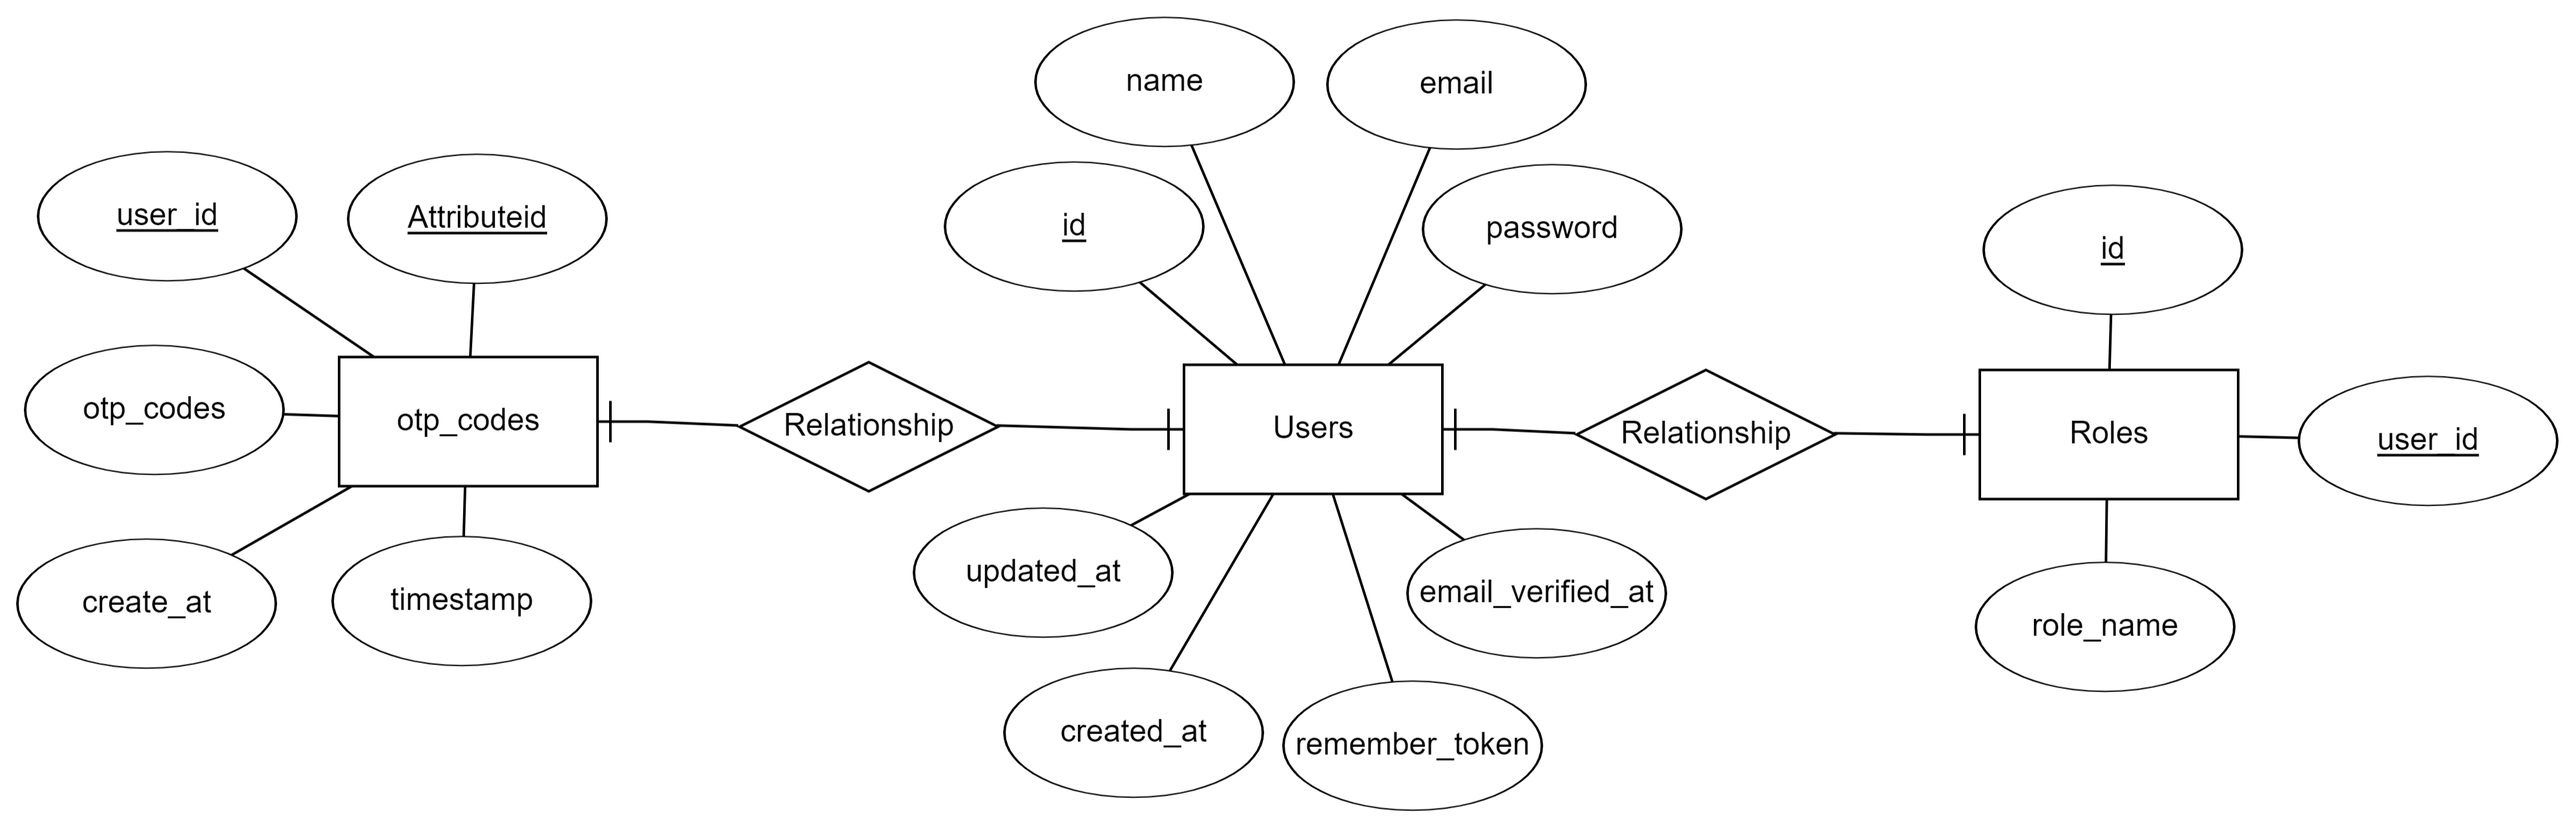
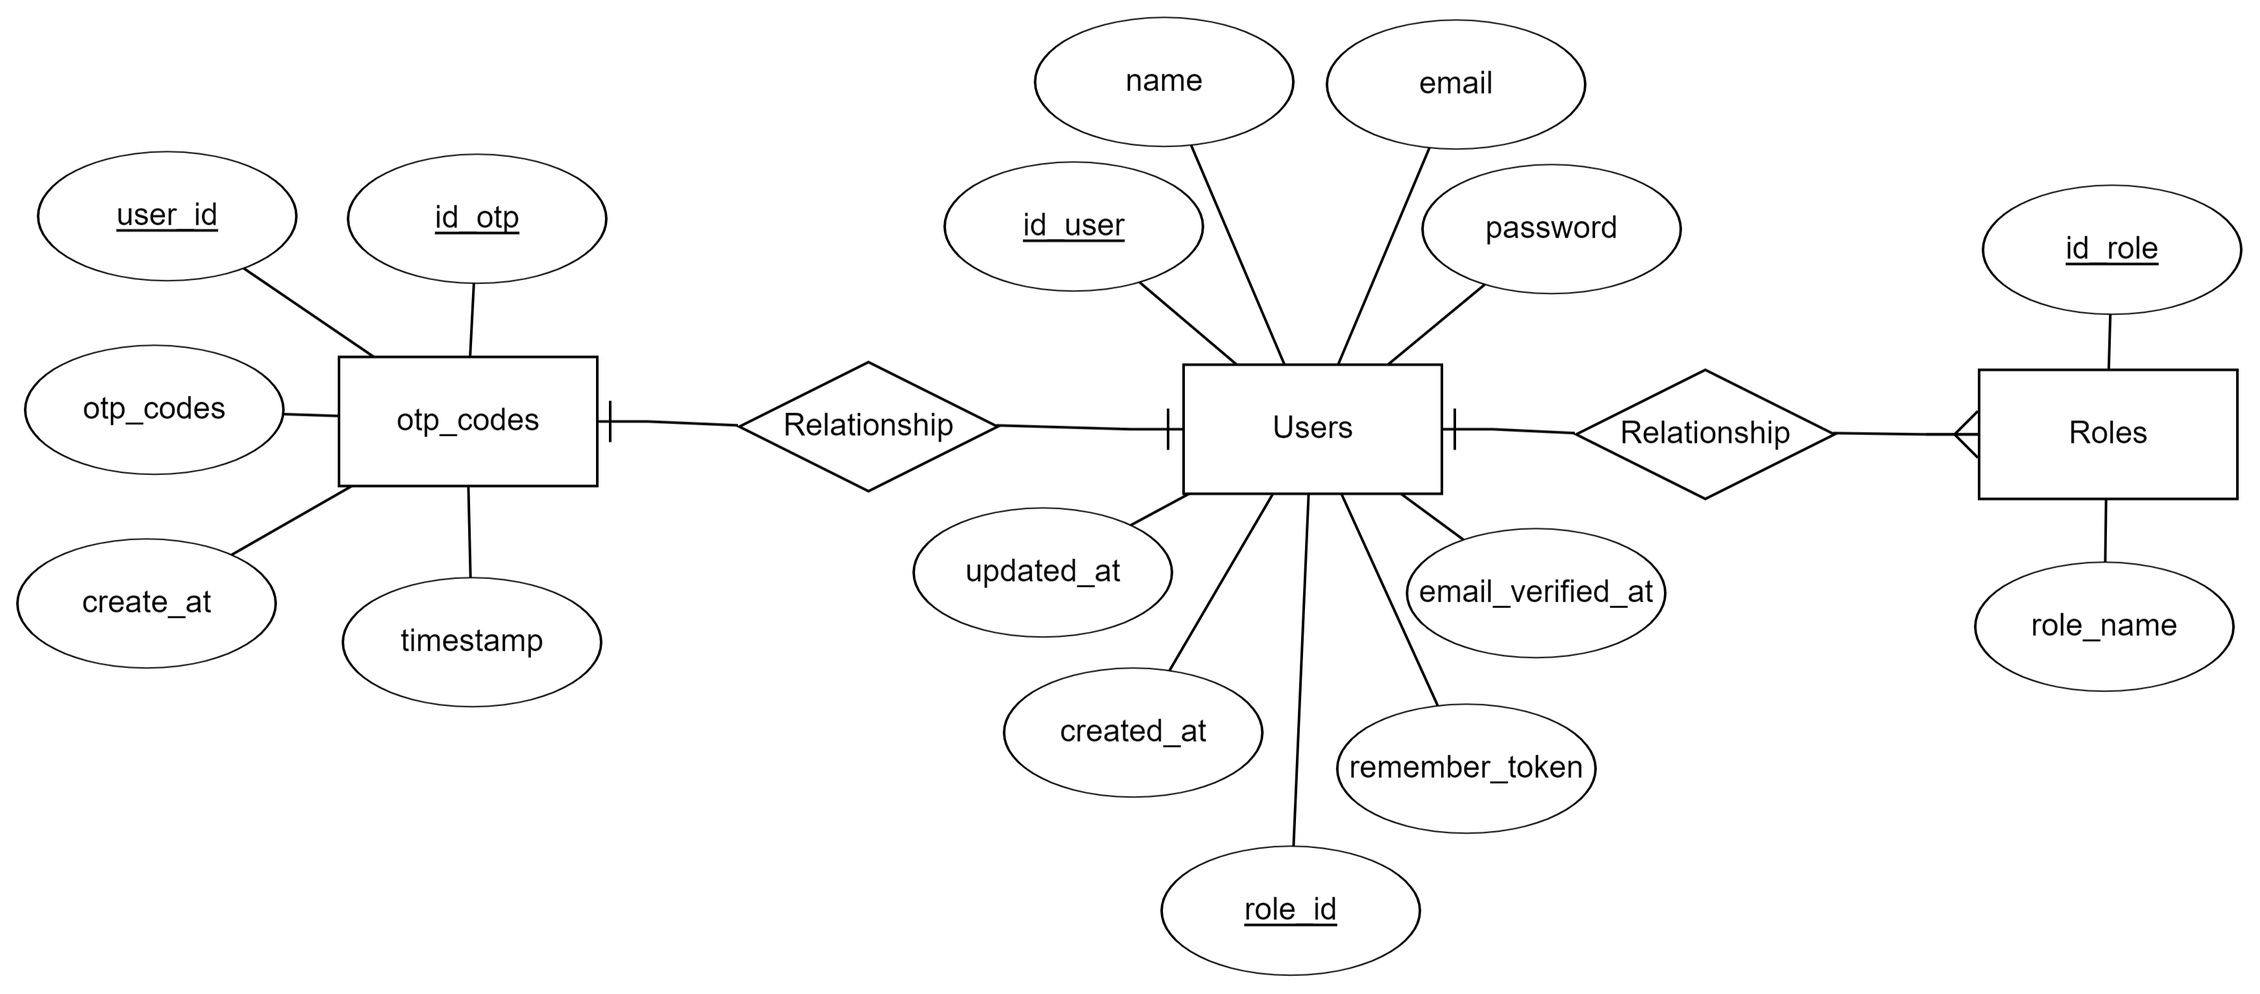
perubahan relasi

diff --git a/crowdfunding/app/User.php b/crowdfunding/app/User.php
@@ -2,14 +2,17 @@
 
 namespace App;
 
+// use App\Traits\UuidTrait;
 use Illuminate\Contracts\Auth\MustVerifyEmail;
 use Illuminate\Foundation\Auth\User as Authenticatable;
 use Illuminate\Notifications\Notifiable;
 use Illuminate\Support\Str;
 
+
 class User extends Authenticatable
 {
     use Notifiable;
+    // use UuidTrait;
 
     /**
      * The "booting" function of model
@@ -25,7 +28,10 @@ class User extends Authenticatable
                 $model->{$model->getKeyName()} = (string) Str::uuid();
             }
         });
+
+        // UuidTrait::bootUuidTrait();
     }
+
 
     /**
      * Get the value indicating whether the IDs are incrementing.
@@ -45,6 +51,18 @@ class User extends Authenticatable
     public function getKeyType()
     {
         return 'string';
+    }
+
+    // relation role
+    public function role()
+    {
+      return $this->belongsTo('App\Role');
+    }
+
+    // relation role
+    public function otp_coder()
+    {
+      return $this->hasOne('App\Role');
     }
 
     /**

diff --git a/crowdfunding/database/migrations/2020_11_04_020136_add_foreign_to_users_table.php b/crowdfunding/database/migrations/2020_11_04_020136_add_foreign_to_users_table.php
@@ -4,7 +4,7 @@ use Illuminate\Database\Migrations\Migration;
 use Illuminate\Database\Schema\Blueprint;
 use Illuminate\Support\Facades\Schema;
 
-class CreateRolesTable extends Migration
+class AddForeignToUsersTable extends Migration
 {
     /**
      * Run the migrations.
@@ -13,10 +13,8 @@ class CreateRolesTable extends Migration
      */
     public function up()
     {
-        Schema::create('roles', function (Blueprint $table) {
-            $table->uuid('id_role')->primary();
-            $table->string('name');
-            $table->timestamps();
+        Schema::table('users', function (Blueprint $table) {
+            $table->foreign('role_id')->references('id_role')->on('roles');
         });
     }
 
@@ -27,6 +25,8 @@ class CreateRolesTable extends Migration
      */
     public function down()
     {
-        Schema::dropIfExists('roles');
+        Schema::table('users', function (Blueprint $table) {
+            Schema::dropforeign('role_id');
+        });
     }
 }

diff --git a/crowdfunding/app/Otp_coder.php b/crowdfunding/app/Otp_coder.php
@@ -1,0 +1,45 @@
+<?php
+
+namespace App;
+
+use Illuminate\Database\Eloquent\Model;
+use Illuminate\Support\Str;
+
+class Otp_coder extends Model
+{
+    protected static function boot() {
+        parent::boot();
+        static::creating(function ($model) {
+            if ( ! $model->getKey()) {
+                $model->{$model->getKeyName()} = (string) Str::uuid();
+            }
+        });
+    
+        // UuidTrait::bootUuidTrait();
+    }
+
+    public function users()
+    {
+      return $this->hasOne('App\User');
+    }
+
+    /**
+     * Get the value indicating whether the IDs are incrementing.
+     *
+     * @return bool
+     */
+    public function getIncrementing()
+    {
+        return false;
+    }
+
+    /**
+     * Get the auto-incrementing key type.
+     *
+     * @return string
+     */
+    public function getKeyType()
+    {
+        return 'string';
+    }
+}

diff --git a/crowdfunding/app/Role.php b/crowdfunding/app/Role.php
@@ -1,0 +1,45 @@
+<?php
+
+namespace App;
+
+use Illuminate\Database\Eloquent\Model;
+use Illuminate\Support\Str;
+
+class Role extends Model
+{
+  protected static function boot() {
+    parent::boot();
+    static::creating(function ($model) {
+        if ( ! $model->getKey()) {
+            $model->{$model->getKeyName()} = (string) Str::uuid();
+        }
+    });
+
+    // UuidTrait::bootUuidTrait();
+  }
+
+  /**
+     * Get the value indicating whether the IDs are incrementing.
+     *
+     * @return bool
+     */
+    public function getIncrementing()
+    {
+        return false;
+    }
+
+    /**
+     * Get the auto-incrementing key type.
+     *
+     * @return string
+     */
+    public function getKeyType()
+    {
+        return 'string';
+    }
+
+    public function users()
+    {
+      return $this->hasMany('App\User');
+    }
+}

diff --git a/crowdfunding/database/migrations/2014_10_12_000000_create_users_table.php b/crowdfunding/database/migrations/2014_10_12_000000_create_users_table.php
@@ -14,14 +14,18 @@ class CreateUsersTable extends Migration
     public function up()
     {
         Schema::create('users', function (Blueprint $table) {
-            $table->uuid('id')->primary();
+            $table->uuid('id_user')->primary();
             $table->string('name');
             $table->string('email')->unique();
             $table->string('password');
+            $table->uuid('role_id')->nullable();
             $table->timestamp('email_verified_at')->nullable();
             $table->rememberToken();
             $table->timestamps();
+            // $table->foreign('role_id')->references('id_role')->on('roles');
         });
+
+      
     }
 
     /**

diff --git a/crowdfunding/database/migrations/2020_11_03_055714_create_otp_coders_table.php b/crowdfunding/database/migrations/2020_11_03_055714_create_otp_coders_table.php
@@ -14,11 +14,11 @@ class CreateOtpCodersTable extends Migration
     public function up()
     {
         Schema::create('otp_coders', function (Blueprint $table) {
-            $table->uuid('id');
+            $table->uuid('id_otp')->primary();
             $table->string('otp_code');
-            $table->uuid('user_id');
+            $table->uuid('user_id')->nullable();
             $table->timestamps();
-            $table->foreign('user_id')->references('id')->on('users');
+            $table->foreign('user_id')->references('id_user')->on('users');
         });
     }
 

diff --git a/crowdfunding/app/Traits/UuidTrait.php b/crowdfunding/app/Traits/UuidTrait.php
@@ -1,0 +1,18 @@
+<?php
+namespace App\Traits;
+
+use Illuminate\Support\Str;
+
+trait UuidTrait {
+
+  public static function bootUuidTrait(){
+    static::creating(function($model){
+      if ( !$model->getKey()) {
+        $model->{$model->getKeyName()} = (string) Str::uuid();
+      }
+    });
+  }
+}
+
+?>
+
